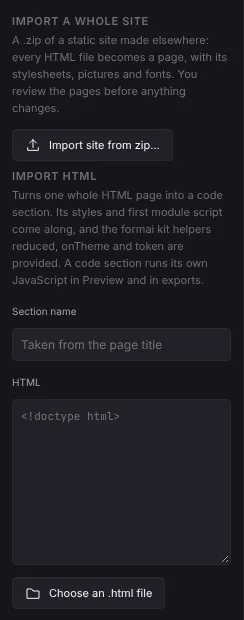
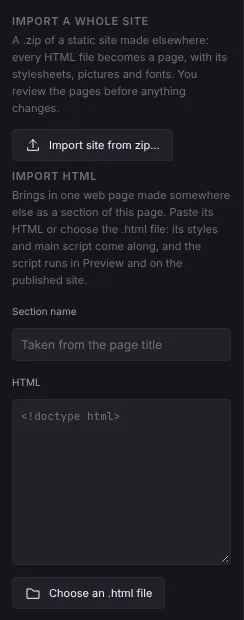
docs: Import HTML's plain explanation in the guide picture, and its technical note on kit helpers in the manual

Changed region(s): [[0.0574, 0.3065, 0.9467, 0.4597]]

diff --git a/docs/MANUAL.md b/docs/MANUAL.md
@@ -142,7 +142,7 @@ An inserted section is built from your site's tokens and text presets, so changi
 
 Kits lists presets and starters. Apply preset sets every value the preset defines, including ones you changed, and is one undo step. Use starter asks for a product name and a tint, then adds the starter's pages and sections in one step; the first page replaces an empty home page.
 
-Import HTML turns a pasted page, or an `.html` file you pick, plus optional CSS into one code section on the page. File > Import HTML... (also in the command search) opens the Library straight on this tab. Code sections must be allowed for the site, which Import HTML turns on. Relative pictures and scripts in the pasted page are not brought along, nor are script elements that are not JavaScript, such as JSON-LD structured data (a note says so; add structured data again in Studio > Localization & SEO), and the section does not run on the canvas, so open Preview to see it. [The library guide](LIBRARY.md) describes the template format, components, routes and limits.
+Import HTML turns a pasted page, or an `.html` file you pick, plus optional CSS into one code section on the page. File > Import HTML... (also in the command search) opens the Library straight on this tab. Code sections must be allowed for the site, which Import HTML turns on. The view explains this in plain words; its tooltip keeps the technical note: the page's styles and first module script come along, the formai kit helpers `reduced`, `onTheme` and `token` are provided to that script, and a code section runs its own JavaScript in Preview and in exports. Relative pictures and scripts in the pasted page are not brought along, nor are script elements that are not JavaScript, such as JSON-LD structured data (a note says so; add structured data again in Studio > Localization & SEO), and the section does not run on the canvas, so open Preview to see it. [The library guide](LIBRARY.md) describes the template format, components, routes and limits.
 
 Import site from zip (File > Import site from zip..., or Import site from zip... at the top of the Import HTML view) brings in a static site built elsewhere. Pick a `.zip` that holds its HTML, CSS, JavaScript, pictures and fonts. Nothing changes until you confirm: the review lists each page with its file and the address it will get (`index.html` becomes `/`, `blog/index.html` becomes `/blog`, `about.html` becomes `/about`; an address the site already uses gets a new one such as `/home`), the number and size of the pictures and fonts, and every file that is skipped with the reason. Add as new pages is the default. Replace matching routes is offered only when an imported address matches a page you already have and nothing else on the site (a component, code, motion or variables entry) points into that page; it keeps the page and its address and swaps its content, so a site you imported before can be imported again over itself. Import does everything as one undo step and reports, for example, "Imported 5 pages and 23 assets. 2 files were skipped.", with the skipped list still shown.
 
